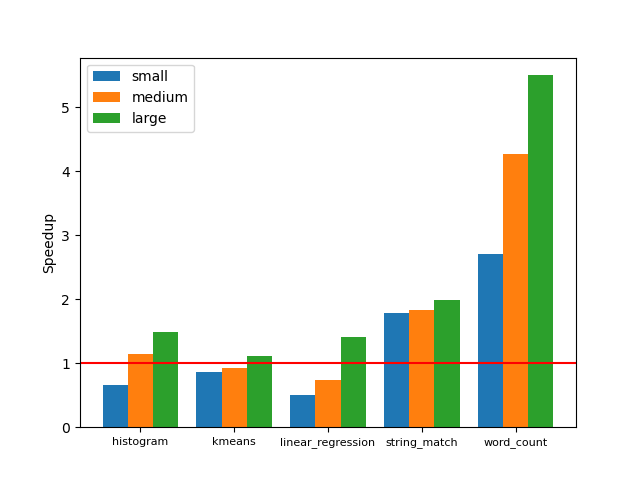
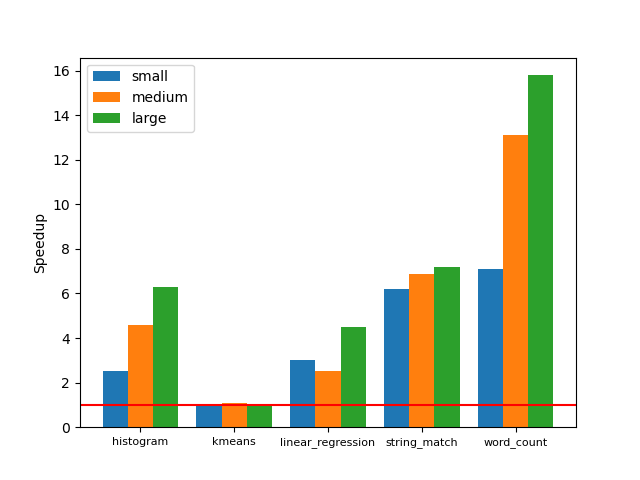
update plots for task D

diff --git a/task3/multicore/test_exp_size.py b/task3/multicore/test_exp_size.py
@@ -26,7 +26,7 @@ def run_workload(threads, app, data_size):
 #    print(stdout)
     pattern = "real\t.+\nuser\t.+\nsys\t.+\n"
     times = re.search(pattern, stdout.decode('ascii')).group(0).split()
-    total_time = timeparse(times[-1])+timeparse(times[-3])+timeparse(times[-5])
+    total_time = timeparse(times[-5])
     print("time", total_time)
     return total_time
 

diff --git a/task3/multicore/test_exp_cores.py b/task3/multicore/test_exp_cores.py
@@ -26,7 +26,7 @@ def run_workload(threads, app):
 #    print(stdout)
     pattern = "real\t.+\nuser\t.+\nsys\t.+\n"
     times = re.search(pattern, stdout.decode('ascii')).group(0).split()
-    total_time = timeparse(times[-1])+timeparse(times[-3])+timeparse(times[-5])
+    total_time = timeparse(times[-5])
     print("time", total_time)
     return total_time
 

diff --git a/task3/multicore/test_basic_cores.py b/task3/multicore/test_basic_cores.py
@@ -25,7 +25,7 @@ def run_workload(cores, app, param, seq = False):
 
 #    print(stderr)
     times = stderr.split()
-    total_time = float(times[-1])+float(times[-3])+float(times[-5])
+    total_time = float(times[-5])
     print("time", total_time)
     return total_time
 

diff --git a/task3/multicore/test_basic_size.py b/task3/multicore/test_basic_size.py
@@ -25,7 +25,7 @@ def run_workload(cores, app, param, seq = False):
 
 #    print(stderr)
     times = stderr.split()
-    total_time = float(times[-1])+float(times[-3])+float(times[-5])
+    total_time = float(times[-5])
     print("time", total_time)
     return total_time
 
